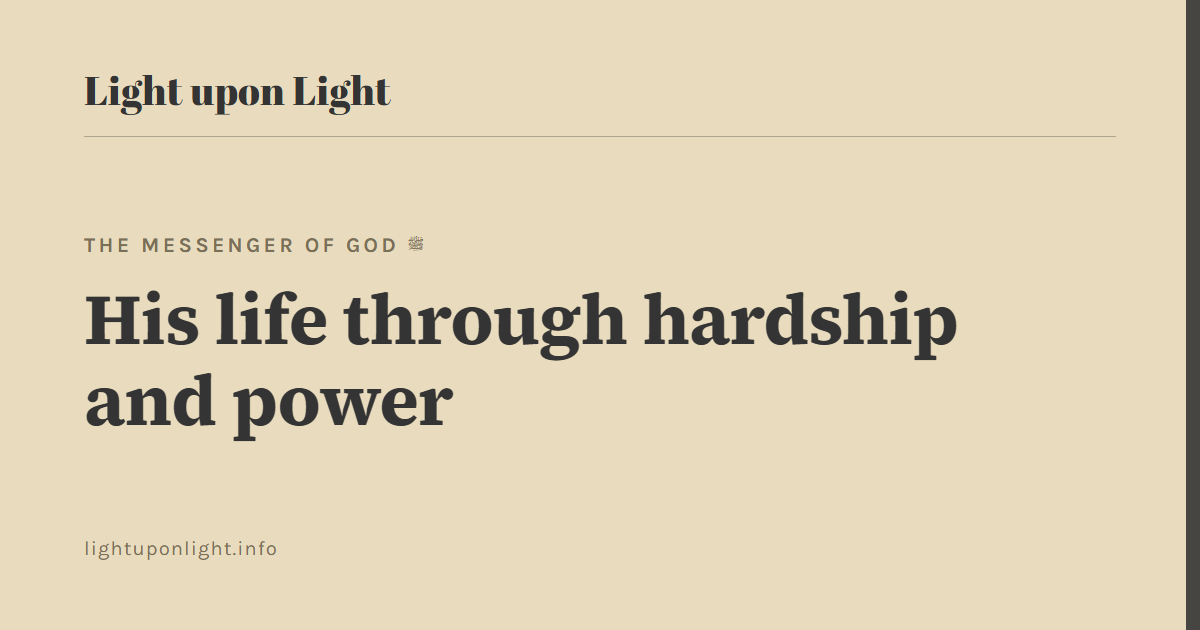
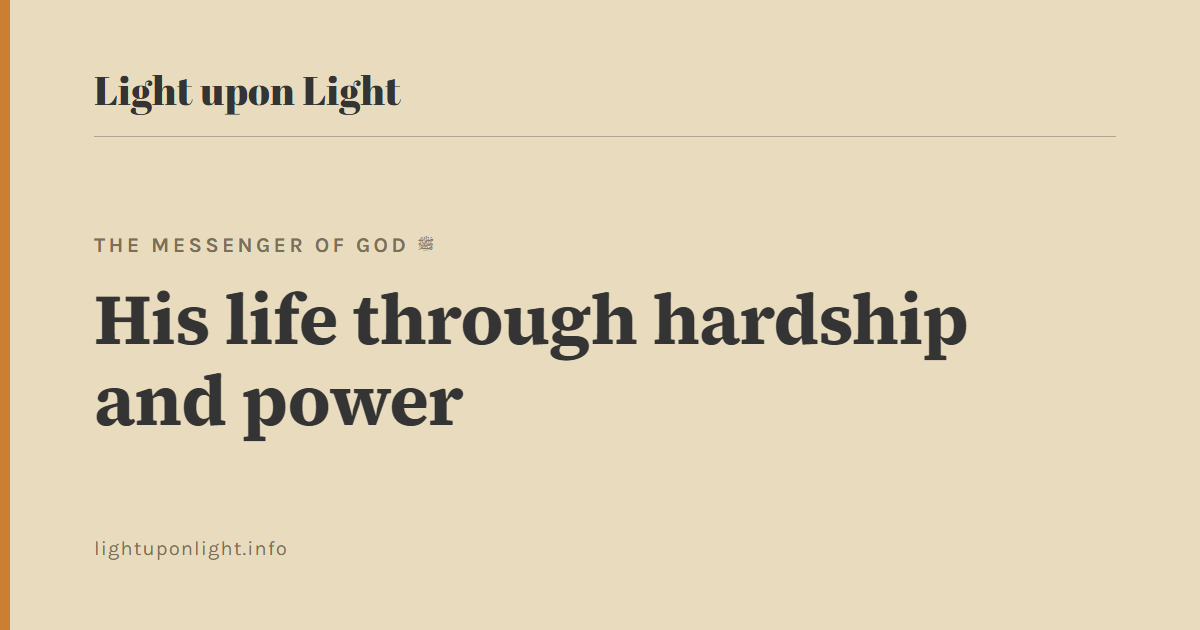
og cards: ochre accent bar, keep ﷺ tight to its name
Replace the flat dark right-edge strip (read as a grey column) with a 10px
left bar in the dirt skin's base09 ochre (#ca7f32). Bind ﷺ to the preceding
word with a non-breaking space so it never wraps onto its own line.

diff --git a/_notes/scripts/og/og.html b/_notes/scripts/og/og.html
@@ -42,18 +42,8 @@
     padding: 70px 84px;
     display: flex;
     flex-direction: column;
-    position: relative;
     overflow: hidden;
-  }
-
-  /* faint vertical band on the right, echoing the site's warmth without imagery */
-  body::after {
-    content: "";
-    position: absolute;
-    top: 0; right: 0; bottom: 0;
-    width: 14px;
-    background: #343434;
-    opacity: 0.9;
+    border-left: 10px solid #ca7f32; /* dirt skin base09 (warm ochre) */
   }
 
   .wordmark {
@@ -113,7 +103,8 @@
 <script>
   const params = new URLSearchParams(location.search);
   const kicker = params.get("kicker") || "";
-  const title = params.get("title") || "";
+  // keep the ﷺ glyph tight to the name it follows, never wrapping alone
+  const title = (params.get("title") || "").replace(/ ﷺ/g, " ﷺ");
   document.getElementById("title").textContent = title;
   const k = document.getElementById("kicker");
   if (kicker) { k.textContent = kicker; } else { k.style.display = "none"; }
